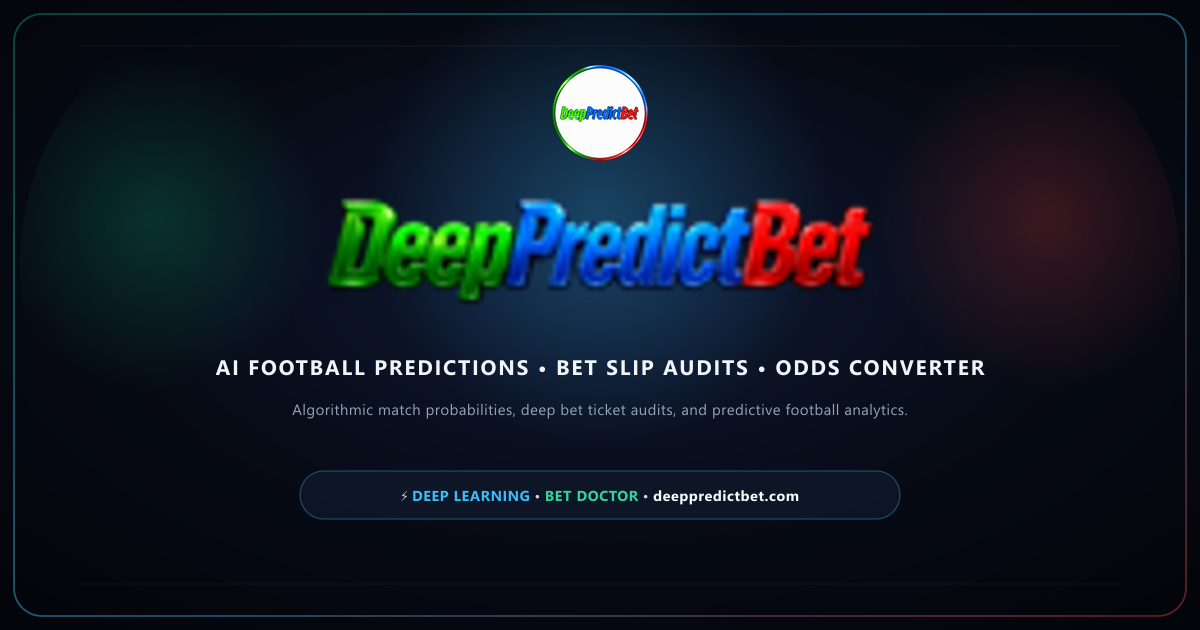
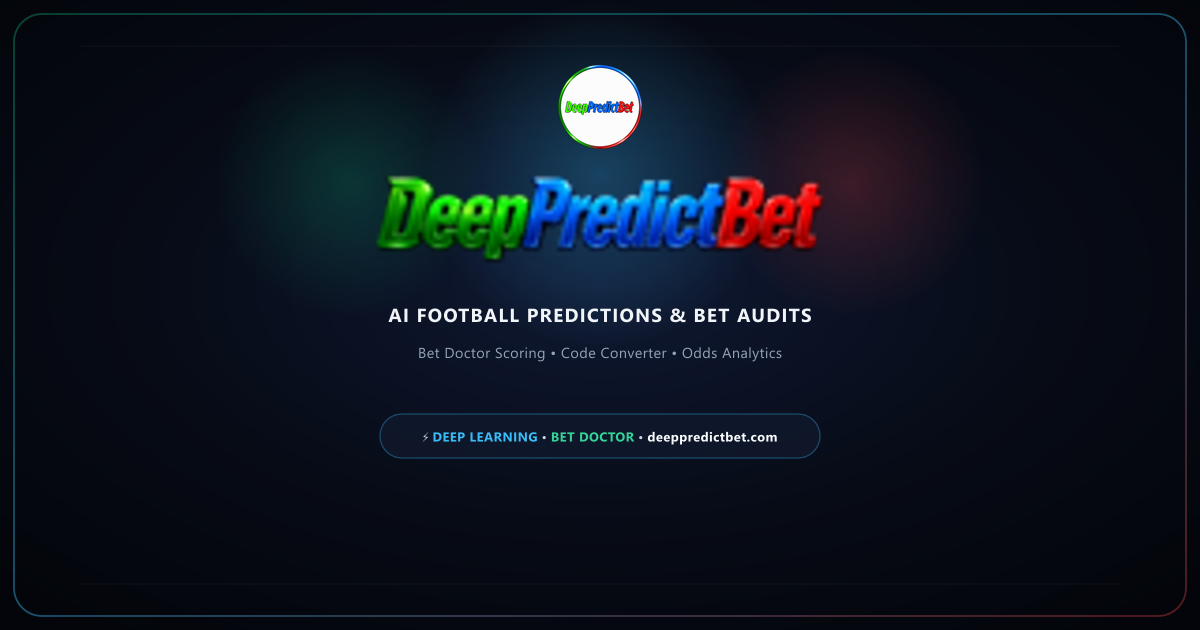
fix(seo): redesign social sharing card with mobile-safe zone to prevent cropping in Telegram Mobile

diff --git a/index.html b/index.html
@@ -20,8 +20,8 @@
   <meta property="og:description"
     content="DeepPredictBet provides AI-driven football predictions, bet slip audits with Bet Doctor, instant cross-bookmaker booking code conversion, and statistical betting analytics.">
   <meta property="og:site_name" content="DeepPredictBet">
-  <meta property="og:image" content="https://deeppredictbet.com/assets/og-image.png?v=20261023_og_v2">
-  <meta property="og:image:secure_url" content="https://deeppredictbet.com/assets/og-image.png?v=20261023_og_v2">
+  <meta property="og:image" content="https://deeppredictbet.com/assets/og-image.png?v=20261023_tg_v3">
+  <meta property="og:image:secure_url" content="https://deeppredictbet.com/assets/og-image.png?v=20261023_tg_v3">
   <meta property="og:image:type" content="image/png">
   <meta property="og:image:width" content="1200">
   <meta property="og:image:height" content="630">
@@ -35,9 +35,9 @@
   <meta name="twitter:title" content="DeepPredictBet — AI Football Predictions, Bet Doctor &amp; Code Converter">
   <meta name="twitter:description"
     content="DeepPredictBet provides AI-driven football predictions, bet slip audits with Bet Doctor, instant cross-bookmaker booking code conversion, and statistical betting analytics.">
-  <meta name="twitter:image" content="https://deeppredictbet.com/assets/og-image.png?v=20261023_og_v2">
-  <meta name="twitter:image:src" content="https://deeppredictbet.com/assets/og-image.png?v=20261023_og_v2">
-  <meta property="twitter:image" content="https://deeppredictbet.com/assets/og-image.png?v=20261023_og_v2">
+  <meta name="twitter:image" content="https://deeppredictbet.com/assets/og-image.png?v=20261023_tg_v3">
+  <meta name="twitter:image:src" content="https://deeppredictbet.com/assets/og-image.png?v=20261023_tg_v3">
+  <meta property="twitter:image" content="https://deeppredictbet.com/assets/og-image.png?v=20261023_tg_v3">
   <meta name="twitter:image:alt" content="DeepPredictBet — AI-Powered Football Predictions, Bet Doctor &amp; Code Converter">
   <meta name="build-version" content="2026.08.10.1230">
 

diff --git a/public/index.html b/public/index.html
@@ -20,8 +20,8 @@
   <meta property="og:description"
     content="DeepPredictBet provides AI-driven football predictions, bet slip audits with Bet Doctor, instant cross-bookmaker booking code conversion, and statistical betting analytics.">
   <meta property="og:site_name" content="DeepPredictBet">
-  <meta property="og:image" content="https://deeppredictbet.com/assets/og-image.png?v=20261023_og_v2">
-  <meta property="og:image:secure_url" content="https://deeppredictbet.com/assets/og-image.png?v=20261023_og_v2">
+  <meta property="og:image" content="https://deeppredictbet.com/assets/og-image.png?v=20261023_tg_v3">
+  <meta property="og:image:secure_url" content="https://deeppredictbet.com/assets/og-image.png?v=20261023_tg_v3">
   <meta property="og:image:type" content="image/png">
   <meta property="og:image:width" content="1200">
   <meta property="og:image:height" content="630">
@@ -35,9 +35,9 @@
   <meta name="twitter:title" content="DeepPredictBet — AI Football Predictions, Bet Doctor &amp; Code Converter">
   <meta name="twitter:description"
     content="DeepPredictBet provides AI-driven football predictions, bet slip audits with Bet Doctor, instant cross-bookmaker booking code conversion, and statistical betting analytics.">
-  <meta name="twitter:image" content="https://deeppredictbet.com/assets/og-image.png?v=20261023_og_v2">
-  <meta name="twitter:image:src" content="https://deeppredictbet.com/assets/og-image.png?v=20261023_og_v2">
-  <meta property="twitter:image" content="https://deeppredictbet.com/assets/og-image.png?v=20261023_og_v2">
+  <meta name="twitter:image" content="https://deeppredictbet.com/assets/og-image.png?v=20261023_tg_v3">
+  <meta name="twitter:image:src" content="https://deeppredictbet.com/assets/og-image.png?v=20261023_tg_v3">
+  <meta property="twitter:image" content="https://deeppredictbet.com/assets/og-image.png?v=20261023_tg_v3">
   <meta name="twitter:image:alt" content="DeepPredictBet — AI-Powered Football Predictions, Bet Doctor &amp; Code Converter">
   <meta name="build-version" content="2026.08.10.1230">
 

diff --git a/public/disclaimer.html b/public/disclaimer.html
@@ -15,7 +15,7 @@
   <meta property="og:title" content="Analytical &amp; Statistical Disclaimer — DeepPredictBet">
   <meta property="og:description" content="DeepPredictBet statistical projections and AI Scout models are strictly for informational and research purposes. Zero gambling operations. 18+ only.">
   <meta property="og:site_name" content="DeepPredictBet">
-  <meta property="og:image" content="https://deeppredictbet.com/assets/og-image.png?v=20261023_og_v2">
+  <meta property="og:image" content="https://deeppredictbet.com/assets/og-image.png?v=20261023_tg_v3">
   <meta property="og:image:width" content="1200">
   <meta property="og:image:height" content="630">
 
@@ -23,9 +23,9 @@
   <meta name="twitter:card" content="summary_large_image">
   <meta name="twitter:site" content="@DeepPredictBet">
   <meta name="twitter:creator" content="@DeepPredictBet">
-  <meta name="twitter:image" content="https://deeppredictbet.com/assets/og-image.png?v=20261023_og_v2">
-  <meta name="twitter:image:src" content="https://deeppredictbet.com/assets/og-image.png?v=20261023_og_v2">
-  <meta property="twitter:image" content="https://deeppredictbet.com/assets/og-image.png?v=20261023_og_v2">
+  <meta name="twitter:image" content="https://deeppredictbet.com/assets/og-image.png?v=20261023_tg_v3">
+  <meta name="twitter:image:src" content="https://deeppredictbet.com/assets/og-image.png?v=20261023_tg_v3">
+  <meta property="twitter:image" content="https://deeppredictbet.com/assets/og-image.png?v=20261023_tg_v3">
 
   <link rel="icon" type="image/x-icon" href="/favicon.ico?v=20261026_opt2">
   <link rel="icon" type="image/png" sizes="32x32" href="/favicon-32x32.png?v=20261026_opt2">

diff --git a/public/disclaimer/index.html b/public/disclaimer/index.html
@@ -15,7 +15,7 @@
   <meta property="og:title" content="Analytical &amp; Statistical Disclaimer — DeepPredictBet">
   <meta property="og:description" content="DeepPredictBet statistical projections and AI Scout models are strictly for informational and research purposes. Zero gambling operations. 18+ only.">
   <meta property="og:site_name" content="DeepPredictBet">
-  <meta property="og:image" content="https://deeppredictbet.com/assets/og-image.png?v=20261023_og_v2">
+  <meta property="og:image" content="https://deeppredictbet.com/assets/og-image.png?v=20261023_tg_v3">
   <meta property="og:image:width" content="1200">
   <meta property="og:image:height" content="630">
 
@@ -23,9 +23,9 @@
   <meta name="twitter:card" content="summary_large_image">
   <meta name="twitter:site" content="@DeepPredictBet">
   <meta name="twitter:creator" content="@DeepPredictBet">
-  <meta name="twitter:image" content="https://deeppredictbet.com/assets/og-image.png?v=20261023_og_v2">
-  <meta name="twitter:image:src" content="https://deeppredictbet.com/assets/og-image.png?v=20261023_og_v2">
-  <meta property="twitter:image" content="https://deeppredictbet.com/assets/og-image.png?v=20261023_og_v2">
+  <meta name="twitter:image" content="https://deeppredictbet.com/assets/og-image.png?v=20261023_tg_v3">
+  <meta name="twitter:image:src" content="https://deeppredictbet.com/assets/og-image.png?v=20261023_tg_v3">
+  <meta property="twitter:image" content="https://deeppredictbet.com/assets/og-image.png?v=20261023_tg_v3">
 
   <link rel="icon" type="image/x-icon" href="/favicon.ico?v=20261026_opt2">
   <link rel="icon" type="image/png" sizes="32x32" href="/favicon-32x32.png?v=20261026_opt2">

diff --git a/disclaimer.html b/disclaimer.html
@@ -15,7 +15,7 @@
   <meta property="og:title" content="Analytical &amp; Statistical Disclaimer — DeepPredictBet">
   <meta property="og:description" content="DeepPredictBet statistical projections and AI Scout models are strictly for informational and research purposes. Zero gambling operations. 18+ only.">
   <meta property="og:site_name" content="DeepPredictBet">
-  <meta property="og:image" content="https://deeppredictbet.com/assets/og-image.png?v=20261023_og_v2">
+  <meta property="og:image" content="https://deeppredictbet.com/assets/og-image.png?v=20261023_tg_v3">
   <meta property="og:image:width" content="1200">
   <meta property="og:image:height" content="630">
 
@@ -23,9 +23,9 @@
   <meta name="twitter:card" content="summary_large_image">
   <meta name="twitter:site" content="@DeepPredictBet">
   <meta name="twitter:creator" content="@DeepPredictBet">
-  <meta name="twitter:image" content="https://deeppredictbet.com/assets/og-image.png?v=20261023_og_v2">
-  <meta name="twitter:image:src" content="https://deeppredictbet.com/assets/og-image.png?v=20261023_og_v2">
-  <meta property="twitter:image" content="https://deeppredictbet.com/assets/og-image.png?v=20261023_og_v2">
+  <meta name="twitter:image" content="https://deeppredictbet.com/assets/og-image.png?v=20261023_tg_v3">
+  <meta name="twitter:image:src" content="https://deeppredictbet.com/assets/og-image.png?v=20261023_tg_v3">
+  <meta property="twitter:image" content="https://deeppredictbet.com/assets/og-image.png?v=20261023_tg_v3">
 
   <link rel="icon" type="image/x-icon" href="/favicon.ico?v=20261020_v3">
   <link rel="icon" type="image/png" sizes="32x32" href="/favicon-32x32.png?v=20261020_v3">

diff --git a/public/responsible-gambling.html b/public/responsible-gambling.html
@@ -15,7 +15,7 @@
   <meta property="og:title" content="Responsible Gambling Policy &amp; Player Protection (18+) — DeepPredictBet">
   <meta property="og:description" content="DeepPredictBet advocates responsible gaming. Strict 18+ enforcement, bankroll management guides, and free support resources.">
   <meta property="og:site_name" content="DeepPredictBet">
-  <meta property="og:image" content="https://deeppredictbet.com/assets/og-image.png?v=20261023_og_v2">
+  <meta property="og:image" content="https://deeppredictbet.com/assets/og-image.png?v=20261023_tg_v3">
   <meta property="og:image:width" content="1200">
   <meta property="og:image:height" content="630">
 
@@ -23,9 +23,9 @@
   <meta name="twitter:card" content="summary_large_image">
   <meta name="twitter:site" content="@DeepPredictBet">
   <meta name="twitter:creator" content="@DeepPredictBet">
-  <meta name="twitter:image" content="https://deeppredictbet.com/assets/og-image.png?v=20261023_og_v2">
-  <meta name="twitter:image:src" content="https://deeppredictbet.com/assets/og-image.png?v=20261023_og_v2">
-  <meta property="twitter:image" content="https://deeppredictbet.com/assets/og-image.png?v=20261023_og_v2">
+  <meta name="twitter:image" content="https://deeppredictbet.com/assets/og-image.png?v=20261023_tg_v3">
+  <meta name="twitter:image:src" content="https://deeppredictbet.com/assets/og-image.png?v=20261023_tg_v3">
+  <meta property="twitter:image" content="https://deeppredictbet.com/assets/og-image.png?v=20261023_tg_v3">
 
   <link rel="icon" type="image/x-icon" href="/favicon.ico?v=20261026_opt2">
   <link rel="icon" type="image/png" sizes="32x32" href="/favicon-32x32.png?v=20261026_opt2">

diff --git a/public/responsible-gambling/index.html b/public/responsible-gambling/index.html
@@ -15,7 +15,7 @@
   <meta property="og:title" content="Responsible Gambling Policy &amp; Player Protection (18+) — DeepPredictBet">
   <meta property="og:description" content="DeepPredictBet advocates responsible gaming. Strict 18+ enforcement, bankroll management guides, and free support resources.">
   <meta property="og:site_name" content="DeepPredictBet">
-  <meta property="og:image" content="https://deeppredictbet.com/assets/og-image.png?v=20261023_og_v2">
+  <meta property="og:image" content="https://deeppredictbet.com/assets/og-image.png?v=20261023_tg_v3">
   <meta property="og:image:width" content="1200">
   <meta property="og:image:height" content="630">
 
@@ -23,9 +23,9 @@
   <meta name="twitter:card" content="summary_large_image">
   <meta name="twitter:site" content="@DeepPredictBet">
   <meta name="twitter:creator" content="@DeepPredictBet">
-  <meta name="twitter:image" content="https://deeppredictbet.com/assets/og-image.png?v=20261023_og_v2">
-  <meta name="twitter:image:src" content="https://deeppredictbet.com/assets/og-image.png?v=20261023_og_v2">
-  <meta property="twitter:image" content="https://deeppredictbet.com/assets/og-image.png?v=20261023_og_v2">
+  <meta name="twitter:image" content="https://deeppredictbet.com/assets/og-image.png?v=20261023_tg_v3">
+  <meta name="twitter:image:src" content="https://deeppredictbet.com/assets/og-image.png?v=20261023_tg_v3">
+  <meta property="twitter:image" content="https://deeppredictbet.com/assets/og-image.png?v=20261023_tg_v3">
 
   <link rel="icon" type="image/x-icon" href="/favicon.ico?v=20261026_opt2">
   <link rel="icon" type="image/png" sizes="32x32" href="/favicon-32x32.png?v=20261026_opt2">

diff --git a/responsible-gambling.html b/responsible-gambling.html
@@ -15,7 +15,7 @@
   <meta property="og:title" content="Responsible Gambling Policy &amp; Player Protection (18+) — DeepPredictBet">
   <meta property="og:description" content="DeepPredictBet advocates responsible gaming. Strict 18+ enforcement, bankroll management guides, and free support resources.">
   <meta property="og:site_name" content="DeepPredictBet">
-  <meta property="og:image" content="https://deeppredictbet.com/assets/og-image.png?v=20261023_og_v2">
+  <meta property="og:image" content="https://deeppredictbet.com/assets/og-image.png?v=20261023_tg_v3">
   <meta property="og:image:width" content="1200">
   <meta property="og:image:height" content="630">
 
@@ -23,9 +23,9 @@
   <meta name="twitter:card" content="summary_large_image">
   <meta name="twitter:site" content="@DeepPredictBet">
   <meta name="twitter:creator" content="@DeepPredictBet">
-  <meta name="twitter:image" content="https://deeppredictbet.com/assets/og-image.png?v=20261023_og_v2">
-  <meta name="twitter:image:src" content="https://deeppredictbet.com/assets/og-image.png?v=20261023_og_v2">
-  <meta property="twitter:image" content="https://deeppredictbet.com/assets/og-image.png?v=20261023_og_v2">
+  <meta name="twitter:image" content="https://deeppredictbet.com/assets/og-image.png?v=20261023_tg_v3">
+  <meta name="twitter:image:src" content="https://deeppredictbet.com/assets/og-image.png?v=20261023_tg_v3">
+  <meta property="twitter:image" content="https://deeppredictbet.com/assets/og-image.png?v=20261023_tg_v3">
 
   <link rel="icon" type="image/x-icon" href="/favicon.ico?v=20261020_v3">
   <link rel="icon" type="image/png" sizes="32x32" href="/favicon-32x32.png?v=20261020_v3">

diff --git a/public/privacy.html b/public/privacy.html
@@ -15,7 +15,7 @@
   <meta property="og:title" content="Privacy Policy &amp; Data Security — DeepPredictBet">
   <meta property="og:description" content="Read DeepPredictBet's privacy policy. Strict data minimization, zero betslip tracking, and privacy-first football analytics.">
   <meta property="og:site_name" content="DeepPredictBet">
-  <meta property="og:image" content="https://deeppredictbet.com/assets/og-image.png?v=20261023_og_v2">
+  <meta property="og:image" content="https://deeppredictbet.com/assets/og-image.png?v=20261023_tg_v3">
   <meta property="og:image:width" content="1200">
   <meta property="og:image:height" content="630">
 
@@ -23,9 +23,9 @@
   <meta name="twitter:card" content="summary_large_image">
   <meta name="twitter:site" content="@DeepPredictBet">
   <meta name="twitter:creator" content="@DeepPredictBet">
-  <meta name="twitter:image" content="https://deeppredictbet.com/assets/og-image.png?v=20261023_og_v2">
-  <meta name="twitter:image:src" content="https://deeppredictbet.com/assets/og-image.png?v=20261023_og_v2">
-  <meta property="twitter:image" content="https://deeppredictbet.com/assets/og-image.png?v=20261023_og_v2">
+  <meta name="twitter:image" content="https://deeppredictbet.com/assets/og-image.png?v=20261023_tg_v3">
+  <meta name="twitter:image:src" content="https://deeppredictbet.com/assets/og-image.png?v=20261023_tg_v3">
+  <meta property="twitter:image" content="https://deeppredictbet.com/assets/og-image.png?v=20261023_tg_v3">
 
   <link rel="icon" type="image/x-icon" href="/favicon.ico?v=20261026_opt2">
   <link rel="icon" type="image/png" sizes="32x32" href="/favicon-32x32.png?v=20261026_opt2">

diff --git a/public/privacy/index.html b/public/privacy/index.html
@@ -15,7 +15,7 @@
   <meta property="og:title" content="Privacy Policy &amp; Data Security — DeepPredictBet">
   <meta property="og:description" content="Read DeepPredictBet's privacy policy. Strict data minimization, zero betslip tracking, and privacy-first football analytics.">
   <meta property="og:site_name" content="DeepPredictBet">
-  <meta property="og:image" content="https://deeppredictbet.com/assets/og-image.png?v=20261023_og_v2">
+  <meta property="og:image" content="https://deeppredictbet.com/assets/og-image.png?v=20261023_tg_v3">
   <meta property="og:image:width" content="1200">
   <meta property="og:image:height" content="630">
 
@@ -23,9 +23,9 @@
   <meta name="twitter:card" content="summary_large_image">
   <meta name="twitter:site" content="@DeepPredictBet">
   <meta name="twitter:creator" content="@DeepPredictBet">
-  <meta name="twitter:image" content="https://deeppredictbet.com/assets/og-image.png?v=20261023_og_v2">
-  <meta name="twitter:image:src" content="https://deeppredictbet.com/assets/og-image.png?v=20261023_og_v2">
-  <meta property="twitter:image" content="https://deeppredictbet.com/assets/og-image.png?v=20261023_og_v2">
+  <meta name="twitter:image" content="https://deeppredictbet.com/assets/og-image.png?v=20261023_tg_v3">
+  <meta name="twitter:image:src" content="https://deeppredictbet.com/assets/og-image.png?v=20261023_tg_v3">
+  <meta property="twitter:image" content="https://deeppredictbet.com/assets/og-image.png?v=20261023_tg_v3">
 
   <link rel="icon" type="image/x-icon" href="/favicon.ico?v=20261026_opt2">
   <link rel="icon" type="image/png" sizes="32x32" href="/favicon-32x32.png?v=20261026_opt2">

diff --git a/privacy.html b/privacy.html
@@ -15,7 +15,7 @@
   <meta property="og:title" content="Privacy Policy &amp; Data Security — DeepPredictBet">
   <meta property="og:description" content="Read DeepPredictBet's privacy policy. Strict data minimization, zero betslip tracking, and privacy-first football analytics.">
   <meta property="og:site_name" content="DeepPredictBet">
-  <meta property="og:image" content="https://deeppredictbet.com/assets/og-image.png?v=20261023_og_v2">
+  <meta property="og:image" content="https://deeppredictbet.com/assets/og-image.png?v=20261023_tg_v3">
   <meta property="og:image:width" content="1200">
   <meta property="og:image:height" content="630">
 
@@ -23,9 +23,9 @@
   <meta name="twitter:card" content="summary_large_image">
   <meta name="twitter:site" content="@DeepPredictBet">
   <meta name="twitter:creator" content="@DeepPredictBet">
-  <meta name="twitter:image" content="https://deeppredictbet.com/assets/og-image.png?v=20261023_og_v2">
-  <meta name="twitter:image:src" content="https://deeppredictbet.com/assets/og-image.png?v=20261023_og_v2">
-  <meta property="twitter:image" content="https://deeppredictbet.com/assets/og-image.png?v=20261023_og_v2">
+  <meta name="twitter:image" content="https://deeppredictbet.com/assets/og-image.png?v=20261023_tg_v3">
+  <meta name="twitter:image:src" content="https://deeppredictbet.com/assets/og-image.png?v=20261023_tg_v3">
+  <meta property="twitter:image" content="https://deeppredictbet.com/assets/og-image.png?v=20261023_tg_v3">
 
   <link rel="icon" type="image/x-icon" href="/favicon.ico?v=20261020_v3">
   <link rel="icon" type="image/png" sizes="32x32" href="/favicon-32x32.png?v=20261020_v3">

diff --git a/public/terms.html b/public/terms.html
@@ -15,7 +15,7 @@
   <meta property="og:title" content="Terms and Conditions of Use — DeepPredictBet">
   <meta property="og:description" content="Review the Terms and Conditions of Use governing the DeepPredictBet AI football prediction platform and analytics tools.">
   <meta property="og:site_name" content="DeepPredictBet">
-  <meta property="og:image" content="https://deeppredictbet.com/assets/og-image.png?v=20261023_og_v2">
+  <meta property="og:image" content="https://deeppredictbet.com/assets/og-image.png?v=20261023_tg_v3">
   <meta property="og:image:width" content="1200">
   <meta property="og:image:height" content="630">
 
@@ -23,9 +23,9 @@
   <meta name="twitter:card" content="summary_large_image">
   <meta name="twitter:site" content="@DeepPredictBet">
   <meta name="twitter:creator" content="@DeepPredictBet">
-  <meta name="twitter:image" content="https://deeppredictbet.com/assets/og-image.png?v=20261023_og_v2">
-  <meta name="twitter:image:src" content="https://deeppredictbet.com/assets/og-image.png?v=20261023_og_v2">
-  <meta property="twitter:image" content="https://deeppredictbet.com/assets/og-image.png?v=20261023_og_v2">
+  <meta name="twitter:image" content="https://deeppredictbet.com/assets/og-image.png?v=20261023_tg_v3">
+  <meta name="twitter:image:src" content="https://deeppredictbet.com/assets/og-image.png?v=20261023_tg_v3">
+  <meta property="twitter:image" content="https://deeppredictbet.com/assets/og-image.png?v=20261023_tg_v3">
 
   <link rel="icon" type="image/x-icon" href="/favicon.ico?v=20261026_opt2">
   <link rel="icon" type="image/png" sizes="32x32" href="/favicon-32x32.png?v=20261026_opt2">
